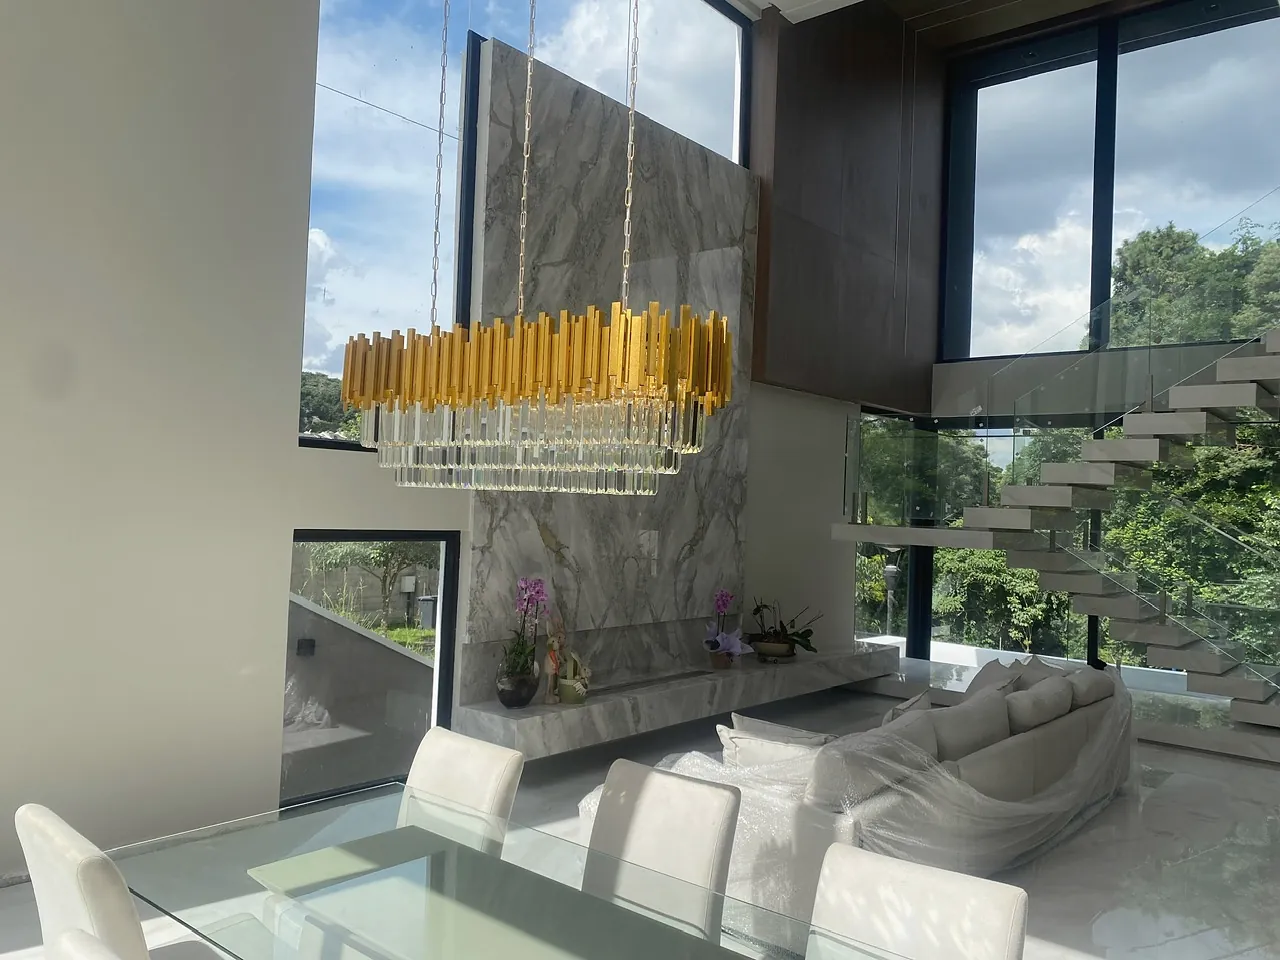
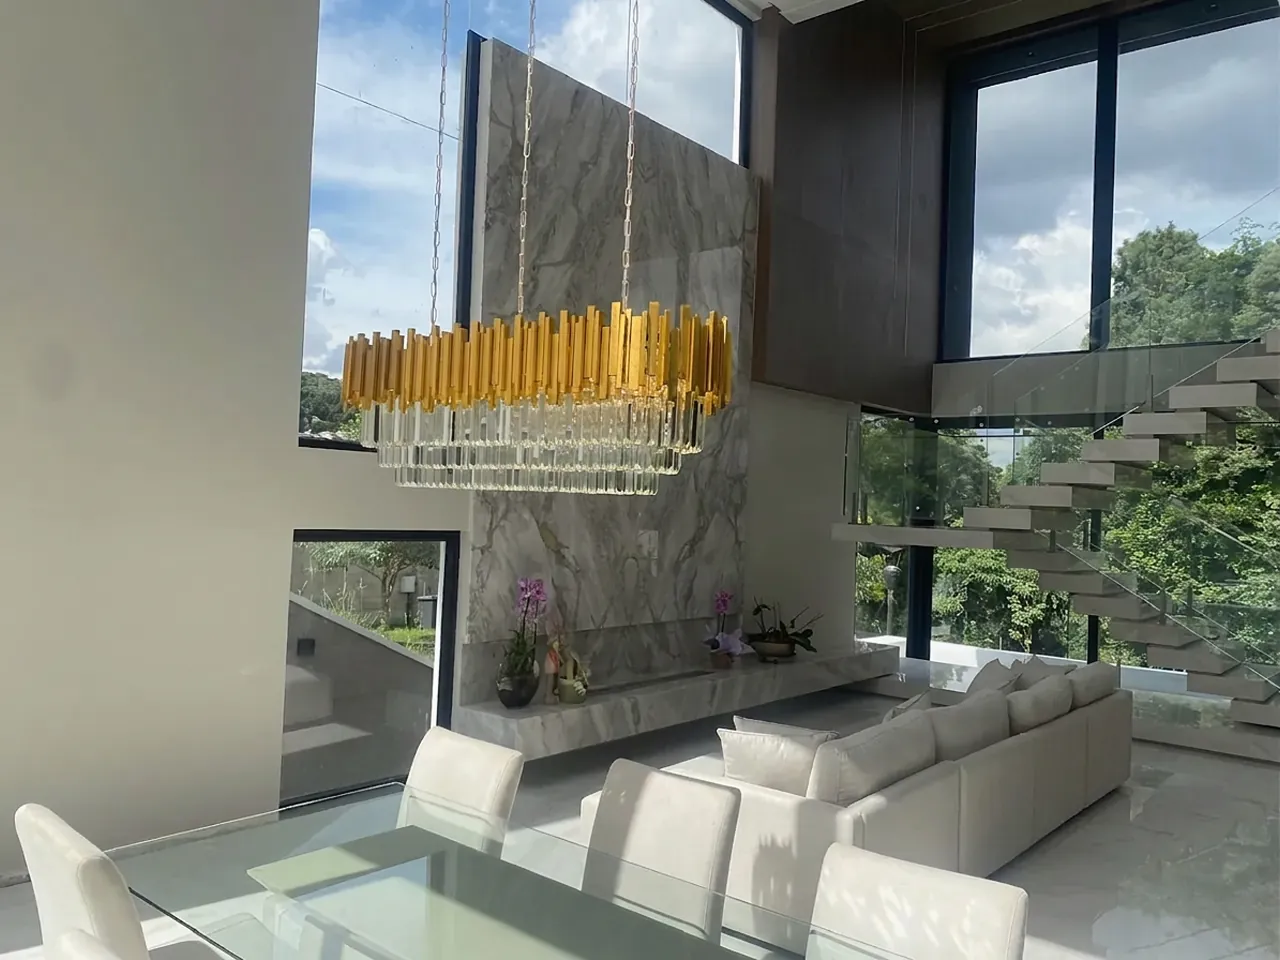
inity

diff --git a/deploy-vercel/index.html b/deploy-vercel/index.html
@@ -258,8 +258,8 @@ height="0" width="0" style="display:none;visibility:hidden"></iframe></noscript>
         <button class="obra__btn" type="button"
           data-title="Obra HV17"
           data-sub="Projeto arquitetônico: Paola Cury"
-          data-gallery="assets/img/obras/hv17/01.webp?v=3|assets/img/obras/hv17/02.webp?v=3|assets/img/obras/hv17/03.webp?v=3|assets/img/obras/hv17/04.webp?v=3|assets/img/obras/hv17/05.webp?v=3|assets/img/obras/hv17/06.webp?v=3"
-          aria-label="Obra HV17, projeto arquitetônico de Paola Cury. Abrir galeria com 6 fotos">
+          data-gallery="assets/img/obras/hv17/01.webp?v=3|assets/img/obras/hv17/02.webp?v=3|assets/img/obras/hv17/03.webp?v=3|assets/img/obras/hv17/04.webp?v=3"
+          aria-label="Obra HV17, projeto arquitetônico de Paola Cury. Abrir galeria com 4 fotos">
           <span class="obra__fig fx" data-m="expo">
             <picture class="fx__p">
               <source media="(max-width: 900px)" srcset="assets/img/obras/hv17/capa-larga.webp?v=3" width="1400" height="875">
@@ -271,50 +271,50 @@ height="0" width="0" style="display:none;visibility:hidden"></iframe></noscript>
           <span class="obra__cap" aria-hidden="true">
             <span class="obra__n">01</span>
             <span class="obra__t">Obra HV17</span>
-            <span class="obra__m">Projeto arquitetônico: Paola Cury · 6 fotos</span>
+            <span class="obra__m">Projeto arquitetônico: Paola Cury · 4 fotos</span>
           </span>
         </button>
       </li>
 
       <li class="obra">
         <button class="obra__btn" type="button"
-          data-title="Residência em madeira e vidro"
+          data-title="Obra BPR14"
           data-sub="Fachada e volumetria"
-          data-gallery="assets/img/obras/madeira-e-vidro/01.webp?v=3|assets/img/obras/madeira-e-vidro/02.webp?v=3|assets/img/obras/madeira-e-vidro/03.webp?v=3|assets/img/obras/madeira-e-vidro/04.webp?v=3|assets/img/obras/madeira-e-vidro/05.webp?v=3|assets/img/obras/madeira-e-vidro/06.webp?v=3"
-          aria-label="Residência em madeira e vidro. Abrir galeria com 6 fotos">
+          data-gallery="assets/img/obras/BPR14/01.webp?v=3|assets/img/obras/BPR14/02.webp?v=3|assets/img/obras/BPR14/03.webp?v=3"
+          aria-label="Obra BPR14, fachada e volumetria. Abrir galeria com 3 fotos">
           <span class="obra__fig fx" data-m="expo">
             <picture class="fx__p">
-              <source media="(max-width: 900px)" srcset="assets/img/obras/madeira-e-vidro/capa-larga.webp?v=3" width="1400" height="875">
-              <img src="assets/img/obras/madeira-e-vidro/capa.webp?v=3" width="1000" height="1250" loading="lazy" decoding="async"
+              <source media="(max-width: 900px)" srcset="assets/img/obras/BPR14/capa-larga.webp?v=3" width="1400" height="875">
+              <img src="assets/img/obras/BPR14/capa.webp?v=3" width="1000" height="1250" loading="lazy" decoding="async"
                    alt="Fachada com revestimento em madeira, pele de vidro e volume em pedra">
             </picture>
             <span class="fx__v" aria-hidden="true"></span>
           </span>
           <span class="obra__cap" aria-hidden="true">
             <span class="obra__n">02</span>
-            <span class="obra__t">Residência em madeira e vidro</span>
-            <span class="obra__m">Fachada e volumetria · 6 fotos</span>
+            <span class="obra__t">Obra BPR14</span>
+            <span class="obra__m">Fachada e volumetria · 3 fotos</span>
           </span>
         </button>
       </li>
 
       <li class="obra">
         <button class="obra__btn" type="button"
-          data-title="Living de pé-direito duplo"
+          data-title="Obra HV59"
           data-sub="Ambientes integrados"
-          data-gallery="assets/img/obras/living-pe-direito-duplo/01.webp?v=3|assets/img/obras/living-pe-direito-duplo/02.webp?v=3|assets/img/obras/living-pe-direito-duplo/03.webp?v=3|assets/img/obras/living-pe-direito-duplo/04.webp?v=3|assets/img/obras/living-pe-direito-duplo/05.webp?v=3|assets/img/obras/living-pe-direito-duplo/06.webp?v=3"
-          aria-label="Living de pé-direito duplo. Abrir galeria com 6 fotos">
+          data-gallery="assets/img/obras/HV59/01.webp?v=3|assets/img/obras/HV59/02.webp?v=3|assets/img/obras/HV59/03.webp?v=3|assets/img/obras/HV59/04.webp?v=3|assets/img/obras/HV59/05.webp?v=3|assets/img/obras/HV59/06.webp?v=3"
+          aria-label="Obra HV59, ambientes integrados. Abrir galeria com 6 fotos">
           <span class="obra__fig fx" data-m="expo">
             <picture class="fx__p">
-              <source media="(max-width: 900px)" srcset="assets/img/obras/living-pe-direito-duplo/capa-larga.webp?v=3" width="908" height="567">
-              <img src="assets/img/obras/living-pe-direito-duplo/capa.webp?v=3" width="728" height="910" loading="lazy" decoding="async"
+              <source media="(max-width: 900px)" srcset="assets/img/obras/HV59/capa-larga.webp?v=3" width="908" height="567">
+              <img src="assets/img/obras/HV59/capa.webp?v=3" width="728" height="910" loading="lazy" decoding="async"
                    alt="Escada em balanço com degraus iluminados, guarda-corpo de vidro e parede de mármore">
             </picture>
             <span class="fx__v" aria-hidden="true"></span>
           </span>
           <span class="obra__cap" aria-hidden="true">
             <span class="obra__n">03</span>
-            <span class="obra__t">Living de pé-direito duplo</span>
+            <span class="obra__t">Obra HV59</span>
             <span class="obra__m">Ambientes integrados · 6 fotos</span>
           </span>
         </button>
